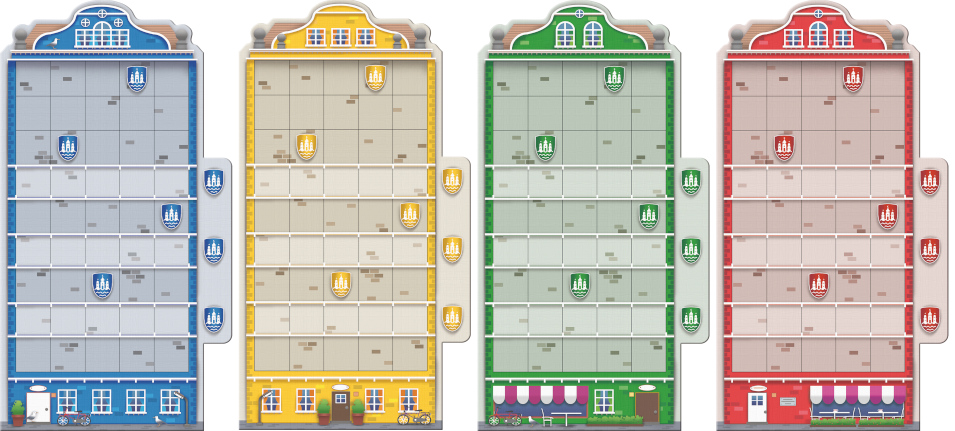
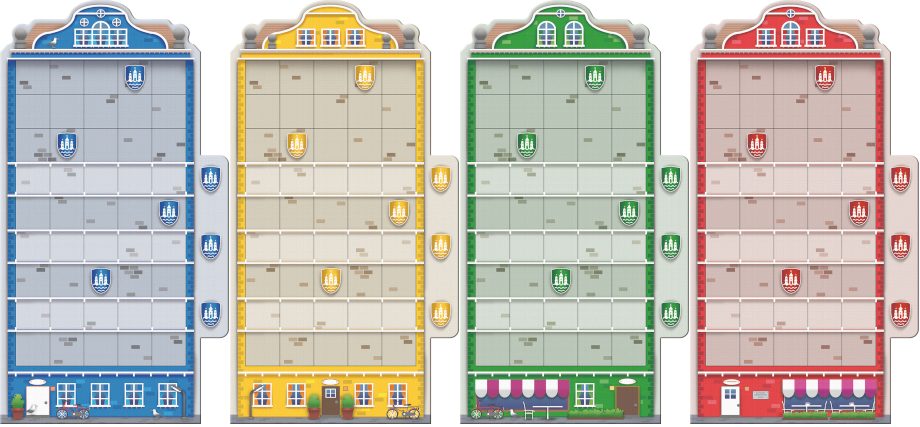
Player boards work with pixel-perfect polyominoes
Also player board cells are always in front of placed polyominoes for display and interaction purposes

diff --git a/copenhagenreboot.css b/copenhagenreboot.css
@@ -364,31 +364,37 @@
 
 .playerboard
 {
-    width: 233px;
-    height: 431px;
+    width: 230px;
+    height: 425px;
     background-image:  url('img/playerboards.png');
     position: relative;
 }
 
 .playerboard.blue{ background-position: 0px 0px; }
-.playerboard.yellow{ background-position: -238px 0px; }
-.playerboard.green{ background-position: -476px 0px; }
-.playerboard.red{ background-position: -714px 0px; }
+.playerboard.yellow{ background-position: -230px 0px; }
+.playerboard.green{ background-position: -460px 0px; }
+.playerboard.red{ background-position: -680px 0px; }
 
+
+.playerboard .polyomino
+{
+    z-index: 1; /* Make sure the clickable cells are always in front of place polyominoes */
+}
 
 .board_cell
 {
     display:  inline-block;
     position: absolute;
-    width: 32px;
-    height: 32px;
-    /*background-color: black;*/
+    width: 34px;
+    height: 34px;
+    /*background-color: black; opacity: 0.25;*/
     cursor: pointer;
+    z-index: 2;
 }
 
 .board_cell.full
 {
-    background-color: white;
+    /*background-color: white;*/
 }
 
 .board_cell.preview
@@ -403,55 +409,55 @@
 
 
 
-#board_cell_0_8{ top: 63px; left:  17px; }
-#board_cell_0_7{ top: 98px; left:  17px; }
-#board_cell_0_6{ top: 133px; left: 17px; }
-#board_cell_0_5{ top: 167px; left: 17px; }
-#board_cell_0_4{ top: 201px; left: 17px; }
-#board_cell_0_3{ top: 237px; left: 17px; }
-#board_cell_0_2{ top: 271px; left: 17px; }
-#board_cell_0_1{ top: 305px; left: 17px; }
-#board_cell_0_0{ top: 339px; left: 17px; }
+#board_cell_0_8{ top: 61px; left:  16px; }
+#board_cell_0_7{ top: 95px; left:  16px; }
+#board_cell_0_6{ top: 129px; left: 16px; }
+#board_cell_0_5{ top: 163px; left: 16px; }
+#board_cell_0_4{ top: 197px; left: 16px; }
+#board_cell_0_3{ top: 231px; left: 16px; }
+#board_cell_0_2{ top: 265px; left: 16px; }
+#board_cell_0_1{ top: 299px; left: 16px; }
+#board_cell_0_0{ top: 333px; left: 16px; }
 
-#board_cell_1_8{ top: 63px; left:  51px; }
-#board_cell_1_7{ top: 98px; left:  51px; }
-#board_cell_1_6{ top: 133px; left: 51px; }
-#board_cell_1_5{ top: 167px; left: 51px; }
-#board_cell_1_4{ top: 201px; left: 51px; }
-#board_cell_1_3{ top: 237px; left: 51px; }
-#board_cell_1_2{ top: 271px; left: 51px; }
-#board_cell_1_1{ top: 305px; left: 51px; }
-#board_cell_1_0{ top: 339px; left: 51px; }
+#board_cell_1_8{ top: 61px; left:  50px; }
+#board_cell_1_7{ top: 95px; left:  50px; }
+#board_cell_1_6{ top: 129px; left: 50px; }
+#board_cell_1_5{ top: 163px; left: 50px; }
+#board_cell_1_4{ top: 197px; left: 50px; }
+#board_cell_1_3{ top: 231px; left: 50px; }
+#board_cell_1_2{ top: 265px; left: 50px; }
+#board_cell_1_1{ top: 299px; left: 50px; }
+#board_cell_1_0{ top: 333px; left: 50px; }
 
-#board_cell_2_8{ top: 63px; left:  85px; }
-#board_cell_2_7{ top: 98px; left:  85px; }
-#board_cell_2_6{ top: 133px; left: 85px; }
-#board_cell_2_5{ top: 167px; left: 85px; }
-#board_cell_2_4{ top: 201px; left: 85px; }
-#board_cell_2_3{ top: 237px; left: 85px; }
-#board_cell_2_2{ top: 271px; left: 85px; }
-#board_cell_2_1{ top: 305px; left: 85px; }
-#board_cell_2_0{ top: 339px; left: 85px; }
+#board_cell_2_8{ top: 61px; left:  84px; }
+#board_cell_2_7{ top: 95px; left:  84px; }
+#board_cell_2_6{ top: 129px; left: 84px; }
+#board_cell_2_5{ top: 163px; left: 84px; }
+#board_cell_2_4{ top: 197px; left: 84px; }
+#board_cell_2_3{ top: 231px; left: 84px; }
+#board_cell_2_2{ top: 265px; left: 84px; }
+#board_cell_2_1{ top: 299px; left: 84px; }
+#board_cell_2_0{ top: 333px; left: 84px; }
 
-#board_cell_3_8{ top: 63px; left:  119px; }
-#board_cell_3_7{ top: 98px; left:  119px; }
-#board_cell_3_6{ top: 133px; left: 119px; }
-#board_cell_3_5{ top: 167px; left: 119px; }
-#board_cell_3_4{ top: 201px; left: 119px; }
-#board_cell_3_3{ top: 237px; left: 119px; }
-#board_cell_3_2{ top: 271px; left: 119px; }
-#board_cell_3_1{ top: 305px; left: 119px; }
-#board_cell_3_0{ top: 339px; left: 119px; }
+#board_cell_3_8{ top: 61px; left:  118px; }
+#board_cell_3_7{ top: 95px; left:  118px; }
+#board_cell_3_6{ top: 129px; left: 118px; }
+#board_cell_3_5{ top: 163px; left: 118px; }
+#board_cell_3_4{ top: 197px; left: 118px; }
+#board_cell_3_3{ top: 231px; left: 118px; }
+#board_cell_3_2{ top: 265px; left: 118px; }
+#board_cell_3_1{ top: 299px; left: 118px; }
+#board_cell_3_0{ top: 333px; left: 118px; }
 
-#board_cell_4_8{ top: 63px; left:  153px; }
-#board_cell_4_7{ top: 98px; left:  153px; }
-#board_cell_4_6{ top: 133px; left: 153px; }
-#board_cell_4_5{ top: 167px; left: 153px; }
-#board_cell_4_4{ top: 201px; left: 153px; }
-#board_cell_4_3{ top: 237px; left: 153px; }
-#board_cell_4_2{ top: 271px; left: 153px; }
-#board_cell_4_1{ top: 305px; left: 153px; }
-#board_cell_4_0{ top: 339px; left: 153px; }
+#board_cell_4_8{ top: 61px; left:  152px; }
+#board_cell_4_7{ top: 95px; left:  152px; }
+#board_cell_4_6{ top: 129px; left: 152px; }
+#board_cell_4_5{ top: 163px; left: 152px; }
+#board_cell_4_4{ top: 197px; left: 152px; }
+#board_cell_4_3{ top: 231px; left: 152px; }
+#board_cell_4_2{ top: 265px; left: 152px; }
+#board_cell_4_1{ top: 299px; left: 152px; }
+#board_cell_4_0{ top: 333px; left: 152px; }
 
 
 #owned_player_area
